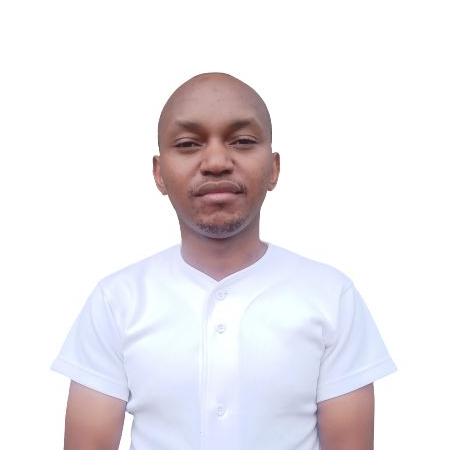
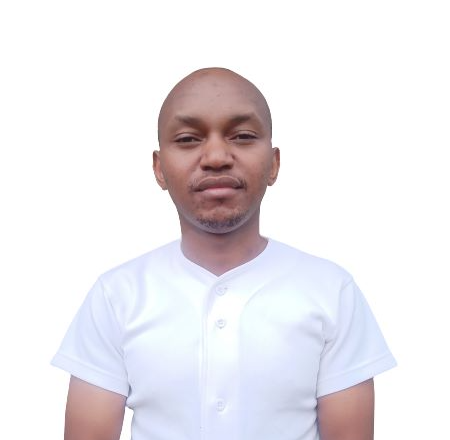
fixed bugs ooooh men its tough

diff --git a/src/pages/Profile.jsx b/src/pages/Profile.jsx
@@ -2,24 +2,21 @@ import { useContext, useState } from "react";
 import UserProfileSidebar from "../components/UserProfileSidebar";
 import imagePlaceholder from "../images/placeholder.png";
 import { Context } from "../context/Context";
-import userpic from "../images/kevin profile.jpg";
 import { useForm } from "react-hook-form";
 import { useMutation } from "@tanstack/react-query";
 import { ThreeDots } from "react-loading-icons";
 import wretch from "wretch";
 import "../index.css";
+import userpic from "../images/kevo.png";
 
 function Profile() {
-  const {
-    register,
-    formState: { errors },
-    handleSubmit,
-  } = useForm();
+  const { user } = useContext(Context);
+  const { register, formState: { errors }, handleSubmit } = useForm();
   const [success, setSuccess] = useState(false);
   const [file, setFile] = useState(null);
   const [profileToggle, setProfileToggle] = useState(false);
   const [successMsg, setSuccessMsg] = useState(false);
-
+  const [error, setError] = useState(false);
 
   const updateRegisterMutation = useMutation({
     mutationFn: async (data) => {
@@ -45,38 +42,12 @@ function Profile() {
   };
 
   return (
-    <div className='flex flex-row mt-60px h-full  bg-base-200 '>
+    <div className="flex flex-row mt-60px sm:h-fit md:h-full bg-base-200 ">
       <UserProfileSidebar />
-      <main className='container  grid md:grid-cols-3 sm:grid-cols-1 gap-5 justify-center items-center md:h-full lg:h-full sm:h-fit mx-2 mb-3'>
-        {
-          updateRegisterMutation.isLoading ?
-            (
-              <ThreeDots stroke="#98ff98" strokeOpacity={.125} speed={.75} />
-            ) : (
-              error && (
-                <div className="alert alert-error mt-60px shadow-lg w-fit z-50 text-center text-white absolute top-0 right-0" >
-                  <div><span className='text-2xl'>😒</span>
-                    <span>Error! {error?.message}</span>
-                  </div>
-                </div >
-              )
-            )
-        }{
-          successMsg && (
-            <div className="alert alert-success mt-60px shadow-lg w-fit z-50 text-center text-white absolute top-0 right-0" >
-              <div><span className='text-2xl'>😎</span>
-                <span>Success! Profile updated</span>
-              </div>
-            </div >)
-        }
-        <button
-          onClick={() => setuserDate(userData ? false : true)}
-          className="updates btn btn-warning"
-        >
-          Update Data
-        </button>
-        {userData ? (
-          <div className="bg-base-200 w-screen h-full">
+      <button onClick={() => setProfileToggle(profileToggle ? false : true)} className="updates btn btn-warning"> Update Data </button>
+      <main className="container  grid md:grid-cols-3 sm:grid-cols-1 gap-5 justify-center items-center h-full mx-2 mb-3">
+        {profileToggle ? (
+          <div className="bg-base-200 w-screen h-fit">
             <form>
               <div className="hero-content flex-row lg:flex-row-reverse updateCol">
                 <div className="">

diff --git a/src/components/Header.jsx b/src/components/Header.jsx
@@ -26,7 +26,6 @@ function Header() {
                   <li><Link to="/profile/"><FaUser className="text-xl" />Profile</Link></li>
                   <li><Link to={`/profile/scholarships`}><FaMoneyCheck className="text-xl" /> Scholarships</Link></li>
                   <li><Link to={`/profile/premium`}><FaMoneyCheckAlt className="text-lg" />Premium</Link></li>
-                  <li><Link to="/profile/update/"><FaCogs className=" text-xl" />Settings</Link></li>
                   <li><a href='#' onClick={handleLogout}><FaUserAltSlash className="text-xl" />Logout</a></li>
                 </>
               ) : (
@@ -54,7 +53,7 @@ function Header() {
             user ? (
               <>
                 <li><Link to="/profile/" className="justify-between"><FaUser className="rounded-full text-xl" />Profile</Link></li>
-                <li><Link to="/profile/update/"><FaCogs className=" text-xl" />Settings</Link></li>
+
                 <li><a href='#' onClick={handleLogout}><FaUserAltSlash className="rounded-full text-xl" />Logout</a></li>
               </>
             ) : (

diff --git a/src/index.css b/src/index.css
@@ -18,7 +18,8 @@
     max-width: 100%;     
     display: none;   
 }
-.registerHeader{
+}
+
 @media (max-width: 375px),
 (max-width: 514px) {
   .userprofile {
@@ -91,10 +92,6 @@
   }
 }
 
-/* .userPage{
-  position: relative;
- } */
-
 .updates {
   position: absolute;
   top: 80px;
@@ -102,31 +99,24 @@
   margin-right: 10px;
 }
 
+
 @media (max-width:767px) {
-  .updates {}
+  .updates {
+    position: absolute;
+    top: 80px;
+    right: 0;
+    margin-right: 10px;
+  }
 
   .avatar {
     margin-top: 70px;
   }
 }
 
-@media (max-width:1023px) {
-  .updateCol {
-    display: flex;
-    flex-direction: row;
-  }
-
-  .updates {
-
-    position: absolute;
-    top: 80px;
-    justify-content: flex-start;
-  }
-
   /* .urlimage{
     margin-right: 100px;
    } */
-}
+
 
 @media (max-width:639) {
   .cardy {

diff --git a/src/pages/AdminLogin.jsx b/src/pages/AdminLogin.jsx
@@ -14,24 +14,6 @@ function AdminLogin() {
   const { dispatch } = useContext(Context);
 
   const loginMutation = useMutation({
-    mutationFn: async (data) => {
-      return axios
-        .post('https://udhamini-api.azurewebsites.net/api/auth/userLogin', data).then(
-          (response) => {
-            if (response.data.accessToken) {
-              dispatch({ type: 'LOGIN_SUCCESS', payload: response?.data });
-              window.location.replace(`/adminprofile`);
-            }
-            return response.data;
-          }
-        ).catch(
-          (error) => {
-            dispatch({ type: 'LOGIN_FAILURE' });
-            setError(true);
-            setTimeout(() => setError(false), 3000);
-          }
-        )
-    }
 
   })
   const onSubmit = (data) => {

diff --git a/src/pages/Login.jsx b/src/pages/Login.jsx
@@ -52,9 +52,9 @@ function Login() {
           )
 
       }
-      <div className="hero-content flex-col lg:flex-row-reverse justify-around ">
-        <div className="hero-content ">
-          < div className="card flex-shrink-0 w-full max-w-sm shadow-2xl p-2 bg-base-200 place-self-center" >
+      <div className="hero-content flex-col lg:flex-row-reverse bg-base-200 justify-around ">
+        <div className="hero-content bg-base-200 ">
+          < div className="card flex-shrink-0 w-full max-w-sm shadow-2xl p-2  place-self-center" >
             <div className="card-header loginHeader">
               <h1 className="text-5xl font-bold  px-2  text-center">Login  🔐</h1>
             </div>

diff --git a/src/pages/Register.jsx b/src/pages/Register.jsx
@@ -16,7 +16,7 @@ function Register() {
       return wretch("https://udhamini-api.azurewebsites.net/api/users/register")
         .post(data)
         .res(response => { window.location.replace(`/login`); })
-        .catch(error => { setError(error) })
+        .catch(error => { setError(error) && setTimeout(() => setError(false), 3000) })
     }
   })
 
@@ -38,8 +38,6 @@ function Register() {
               </div >
             )
           )
-      }{
-        setTimeout(() => setError(false), 3000)
       }
       <div className="hero-content">
         <h1 className="text-5xl font-bold xs:text-4xl registerHeader">✍  Register now!</h1>

diff --git a/src/components/UserProfileSidebar.jsx b/src/components/UserProfileSidebar.jsx
@@ -10,7 +10,6 @@ function UserProfileSidebar() {
             <li className='w-full'><Link to={`/profile/`}><FaUser /> Profile</Link></li>
             <li><Link to={`/profile/scholarships`}><FaMoneyCheckAlt /> Scholarships</Link></li>
             <li><Link to={`/profile/premium`}><FaMoneyCheckAlt />Premium Tier</Link></li>
-            <li><Link to={`/profile/update`}><FaCog />Edit Profile</Link></li>
         </ul>
     )
 }

diff --git a/src/pages/About.jsx b/src/pages/About.jsx
@@ -2,7 +2,7 @@ import React from 'react';
 import { Link } from 'react-router-dom';
 import { FaLinkedin, FaPencilAlt } from 'react-icons/fa';
 import samkam from '../images/samkam.png';
-import kevin from '../images/Kevo one.png';
+import kevin from '../images/Kevo.png';
 import charity from '../images/Charity.png';
 import Denis from '../images/Denis.png';
 function About() {
